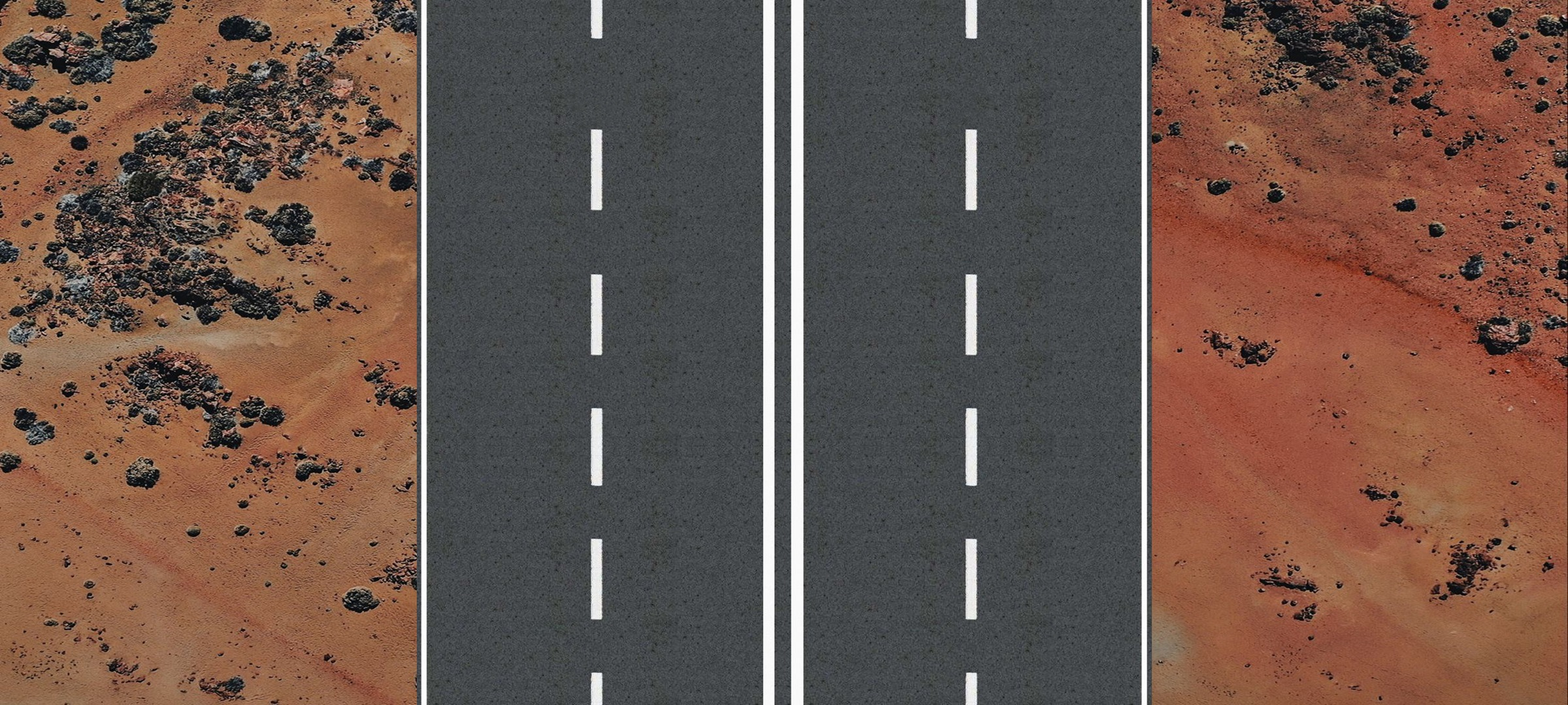
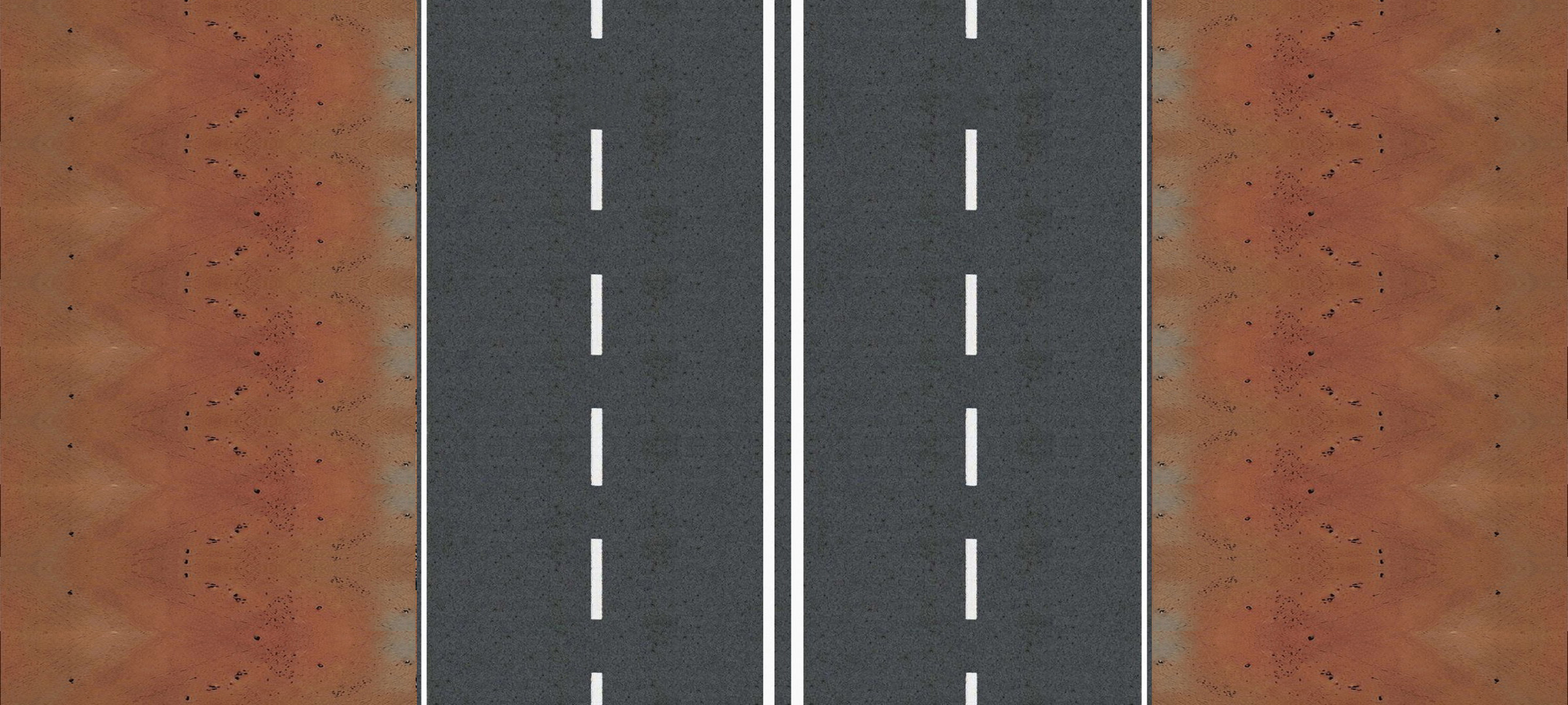
Текстуры и спаун врагов

Changed region(s): [[0.0, 0.0, 0.2812, 1.0], [0.7188, 0.0, 1.0, 0.8861]]

diff --git a/core/src/com/mygdx/game/Game.java b/core/src/com/mygdx/game/Game.java
@@ -37,8 +37,10 @@ public class Game implements Scene{
     private SpriteBatch fon2 = new SpriteBatch();
     private SpriteBatch endBatch = new SpriteBatch();
     private SpriteBatch pauseBatch = new SpriteBatch();
+    private SpriteBatch znakBatch = new SpriteBatch();
     private static Texture field = new Texture("Game/Field.jpg");
     private static Texture desert = new Texture("Game/Desert.jpg");
+    private static Texture znakTexture = new Texture("Game/znak.png");
     private static Texture endTexture = new Texture("Game/end.jpg");
     private static Texture pauseTexture = new Texture("Game/pause.jpg");
     private Texture drawFonTexture1=field;
@@ -50,6 +52,7 @@ public class Game implements Scene{
     private static Car gameCar;
     boolean flag_right=false, flag_left=false;
     boolean flag_gas=false, flag_breake=false;
+    boolean flag_znak=false;
     static int positionCarY=100;
 
     private GameMusic music;
@@ -332,11 +335,22 @@ public class Game implements Scene{
                 Gdx.graphics.getWidth(), Gdx.graphics.getHeight());
         fon2.end();
 
+        if(flag_znak){
+            znakBatch.begin();
+            znakBatch.draw(znakTexture, (int)(840*Gdx.graphics.getWidth() / 1080),
+                    (int)(positionFon1*Gdx.graphics.getHeight() / 2400),
+                    (int)(znakTexture.getWidth()*Gdx.graphics.getWidth() / 2400),
+                    (int)(znakTexture.getHeight()*Gdx.graphics.getHeight() / 1080));
+            znakBatch.end();
+            if(positionFon1<-500) flag_znak=false;
+        }
+
         positionFon1 -= 15;
         positionFon2 -= 15;
         if (positionFon1 <= -2400){
             positionFon1 = positionFon2+2400;
             flag_score=true;
+            if(score%50==0 && score!=0) flag_znak=true;
             if(flag_fon){
                 if(drawFonTexture1==field){
                     drawFonTexture1=desert;
@@ -364,17 +378,19 @@ public class Game implements Scene{
             score+=1;
             resultLabel.setText(""+score);
 
-            if(score%4==0 && score<=8){
+            if(score%3==0 && score<=8){
                 enemySpawn();
             }else if(score%3==0 && score>8 && score<=20){
                 enemySpawn();
-            }else if(score%2==0 && score>=20 && score<=40){
-                enemySpawn();
-            }else if(score>40){
+            }else if(score>=20 && score<=40){
                 enemySpawn();
             }
 
             if(score%50==0) flag_fon=true;
+        }
+
+        if(score>40 && positionFon1==-1200 || positionFon2==-1200){
+            enemySpawn();
         }
     }
     private void enemyDraw()
